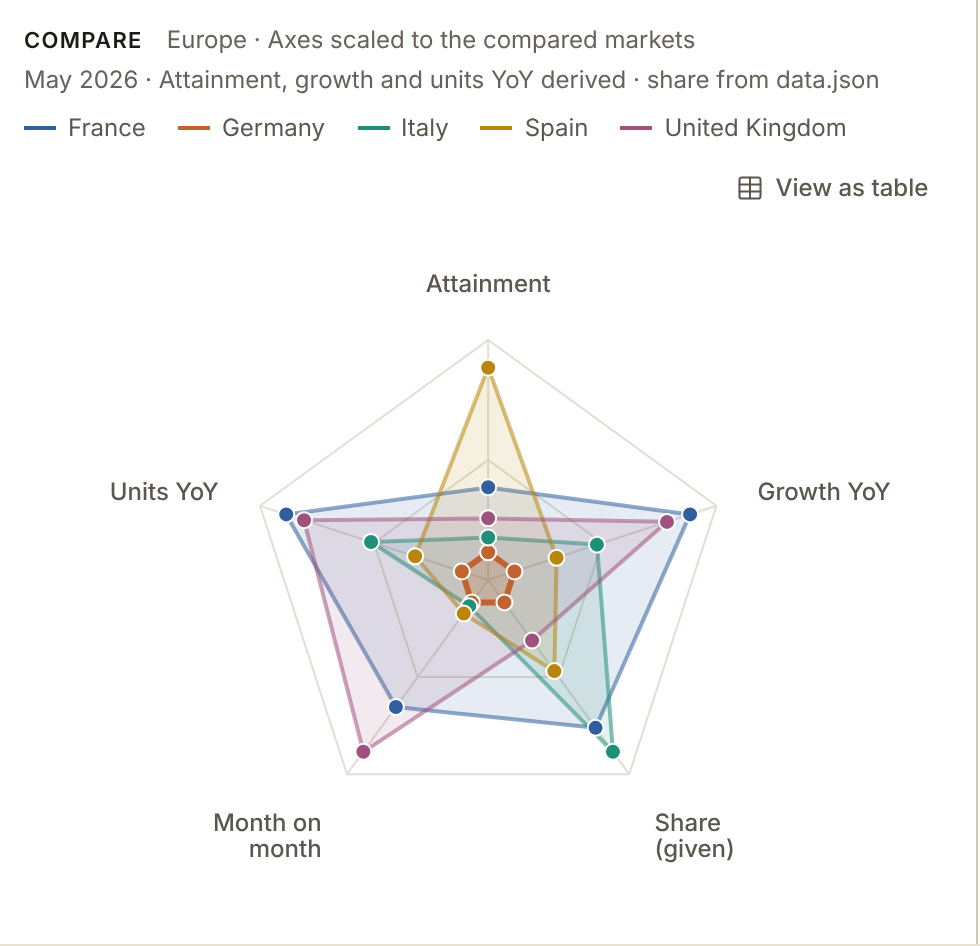
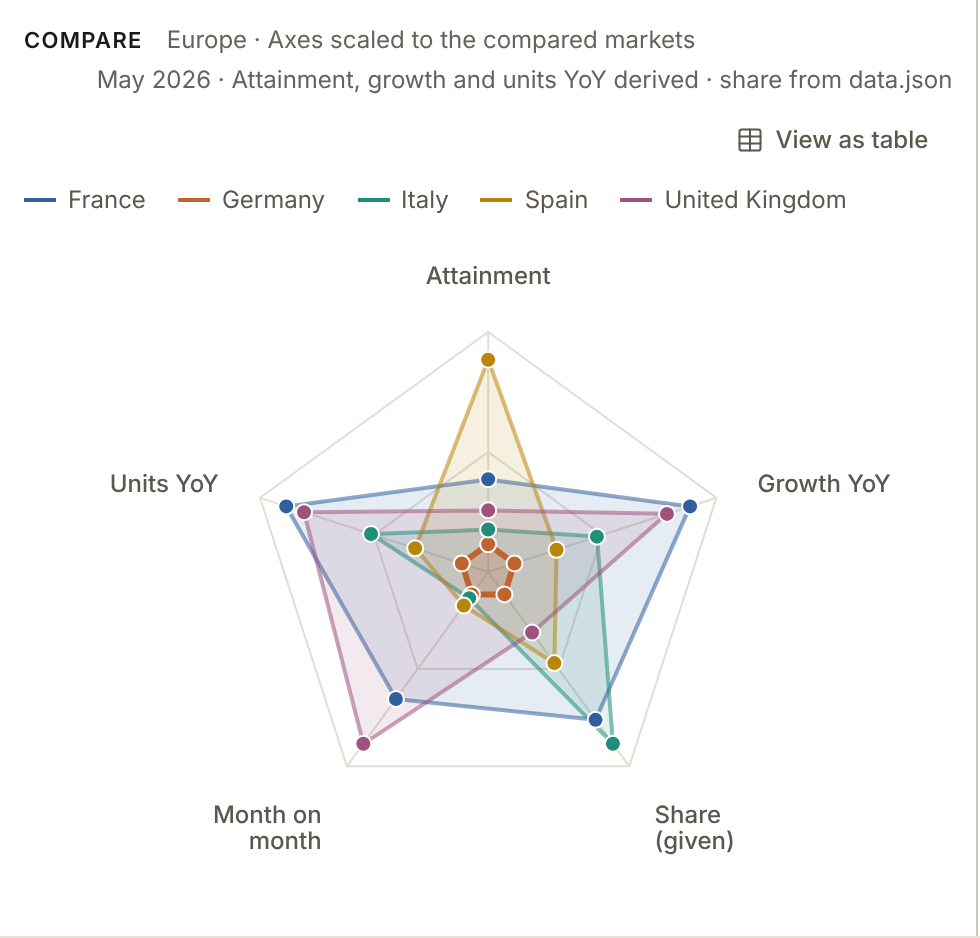
fix(analyst): radar toggle back in the title row, 12px under map scale legends, e2e for both

diff --git a/src/features/analyst/RadarCard.tsx b/src/features/analyst/RadarCard.tsx
@@ -1,12 +1,16 @@
 "use client";
 
+import { useId, useState } from "react";
+
 import { Legend } from "@/components/charts/Legend";
 import { RadarChart, RadarChartTable } from "@/components/charts/RadarChart";
-import { ViewAsTable } from "@/components/charts/ViewAsTable";
+import { TableView, ViewAsTableToggle } from "@/components/charts/ViewAsTable";
 import { SheetSection } from "./Sheet";
 import type { RadarVM } from "./viewModel";
 
 export function RadarCard({ vm, rowLabel }: { vm: RadarVM; rowLabel: string }) {
+  const tableId = useId();
+  const [pressed, setPressed] = useState(false);
   const desc = `Radar chart of ${vm.series.length} ${rowLabel.toLowerCase()}s on ${vm.axes.join(", ")}. Each axis is scaled from the lowest to the highest value shown. Table available via View as table.`;
   return (
     <SheetSection
@@ -14,6 +18,14 @@ export function RadarCard({ vm, rowLabel }: { vm: RadarVM; rowLabel: string }) {
       subtitle={vm.subtitle}
       caption={vm.caption}
       allProducts={vm.allProducts}
+      actions={
+        <ViewAsTableToggle
+          pressed={pressed}
+          controls={tableId}
+          onPressedChange={setPressed}
+          subject="the compare radar chart"
+        />
+      }
       legend={
         <Legend
           label="Radar series"
@@ -21,8 +33,9 @@ export function RadarCard({ vm, rowLabel }: { vm: RadarVM; rowLabel: string }) {
         />
       }
     >
-      <ViewAsTable
-        subject="the compare radar chart"
+      <TableView
+        id={tableId}
+        pressed={pressed}
         chart={<RadarChart axes={vm.axes} series={vm.series} title={vm.title} desc={desc} />}
         table={
           <RadarChartTable

diff --git a/tests/e2e/charts.spec.ts b/tests/e2e/charts.spec.ts
@@ -110,6 +110,8 @@ test("series legends sit on their own row under the title at every width, scale 
       const region = card(page, name);
       const legend = region.getByRole("list", { name: label });
       const header = region.locator('[data-slot="card-header"]');
+      // The toggle belongs to the title row, not to a row of its own between the legend and the chart.
+      await expect(header.getByRole("button", { name: /^View as table/ })).toBeVisible();
       const chart = region.getByRole("group").first();
       const h = await header.boundingBox();
       const l = await legend.boundingBox();
@@ -127,5 +129,6 @@ test("series legends sit on their own row under the title at every width, scale 
     const sc = await scale.boundingBox();
     if (!g || !sc) throw new Error("heat map grid or scale not laid out");
     expect(sc.y).toBeGreaterThanOrEqual(g.y + g.height - 1);
+    expect(sc.y - (g.y + g.height)).toBeGreaterThanOrEqual(11);
   }
 });

diff --git a/src/features/analyst/MapSection.tsx b/src/features/analyst/MapSection.tsx
@@ -81,7 +81,7 @@ export function MapSection({ map, regions }: { map: OverviewVM["map"]; regions: 
                 ) : (
                   <MapSkeleton />
                 )}
-                <div className="mt-2 flex w-full justify-center">
+                <div className="mt-3 flex w-full justify-center">
                   <Legend
                     label={`${metricLabel} colour scale`}
                     items={legendFor(map).map((b) => ({

diff --git a/src/features/overview/MapCard.tsx b/src/features/overview/MapCard.tsx
@@ -201,7 +201,7 @@ export function MapCard({
     );
 
   const legendEl = (
-    <div className="mx-auto mt-2 flex w-full max-w-[40rem] justify-center">
+    <div className="mx-auto mt-3 flex w-full max-w-[40rem] justify-center">
       <Legend items={legend} label={`${byStatus ? "Status" : metricLabel} colour scale`} />
     </div>
   );

diff --git a/docs/design-system.md b/docs/design-system.md
@@ -389,7 +389,7 @@ Used by the chart and the differs-from-source chip. Box: `--surface`, border, ra
 
 Card, title `Germany · Revenue vs forecast vs prior year`, caption to the right `Jun 2024 – May 2026 · USD · Source · data.json`. The legend is its own row under the title and subtitle; `View as table` stays in the title row on the right.
 
-- Legend items: 16 × 2 px line sample in the series style (solid / dashed / dotted) then the name in `--text-label` `--ink-2`: `Actual`, `Forecast`, `Prior year`. Static, not interactive.
+- Legend items: 16 × 2 px line sample in the series style (solid / dashed / dotted; 16 px so a dash pattern reads), a 6 px gap, then the name in `--text-label` `--ink-2`: `Actual`, `Forecast`, `Prior year`. Static, not interactive.
 - `View as table` is a ghost button with lucide `table` 14 px, `aria-pressed`, `aria-controls` the table id. Pressing it hides the SVG (`hidden` attribute) and shows the table, and swaps the label to `View as chart`. Keyboard reachable, one click.
 
 SVG: `viewBox 0 0 720 260`, width 100 %, `role="img"`, `aria-labelledby` the title and a `<desc>` that reads: `Line chart of Germany monthly revenue from June 2024 to May 2026. Actual tracks below forecast throughout, with a sharp dip to 1.21 million in March 2026, 27 percent below February. Table available via View as table.`
